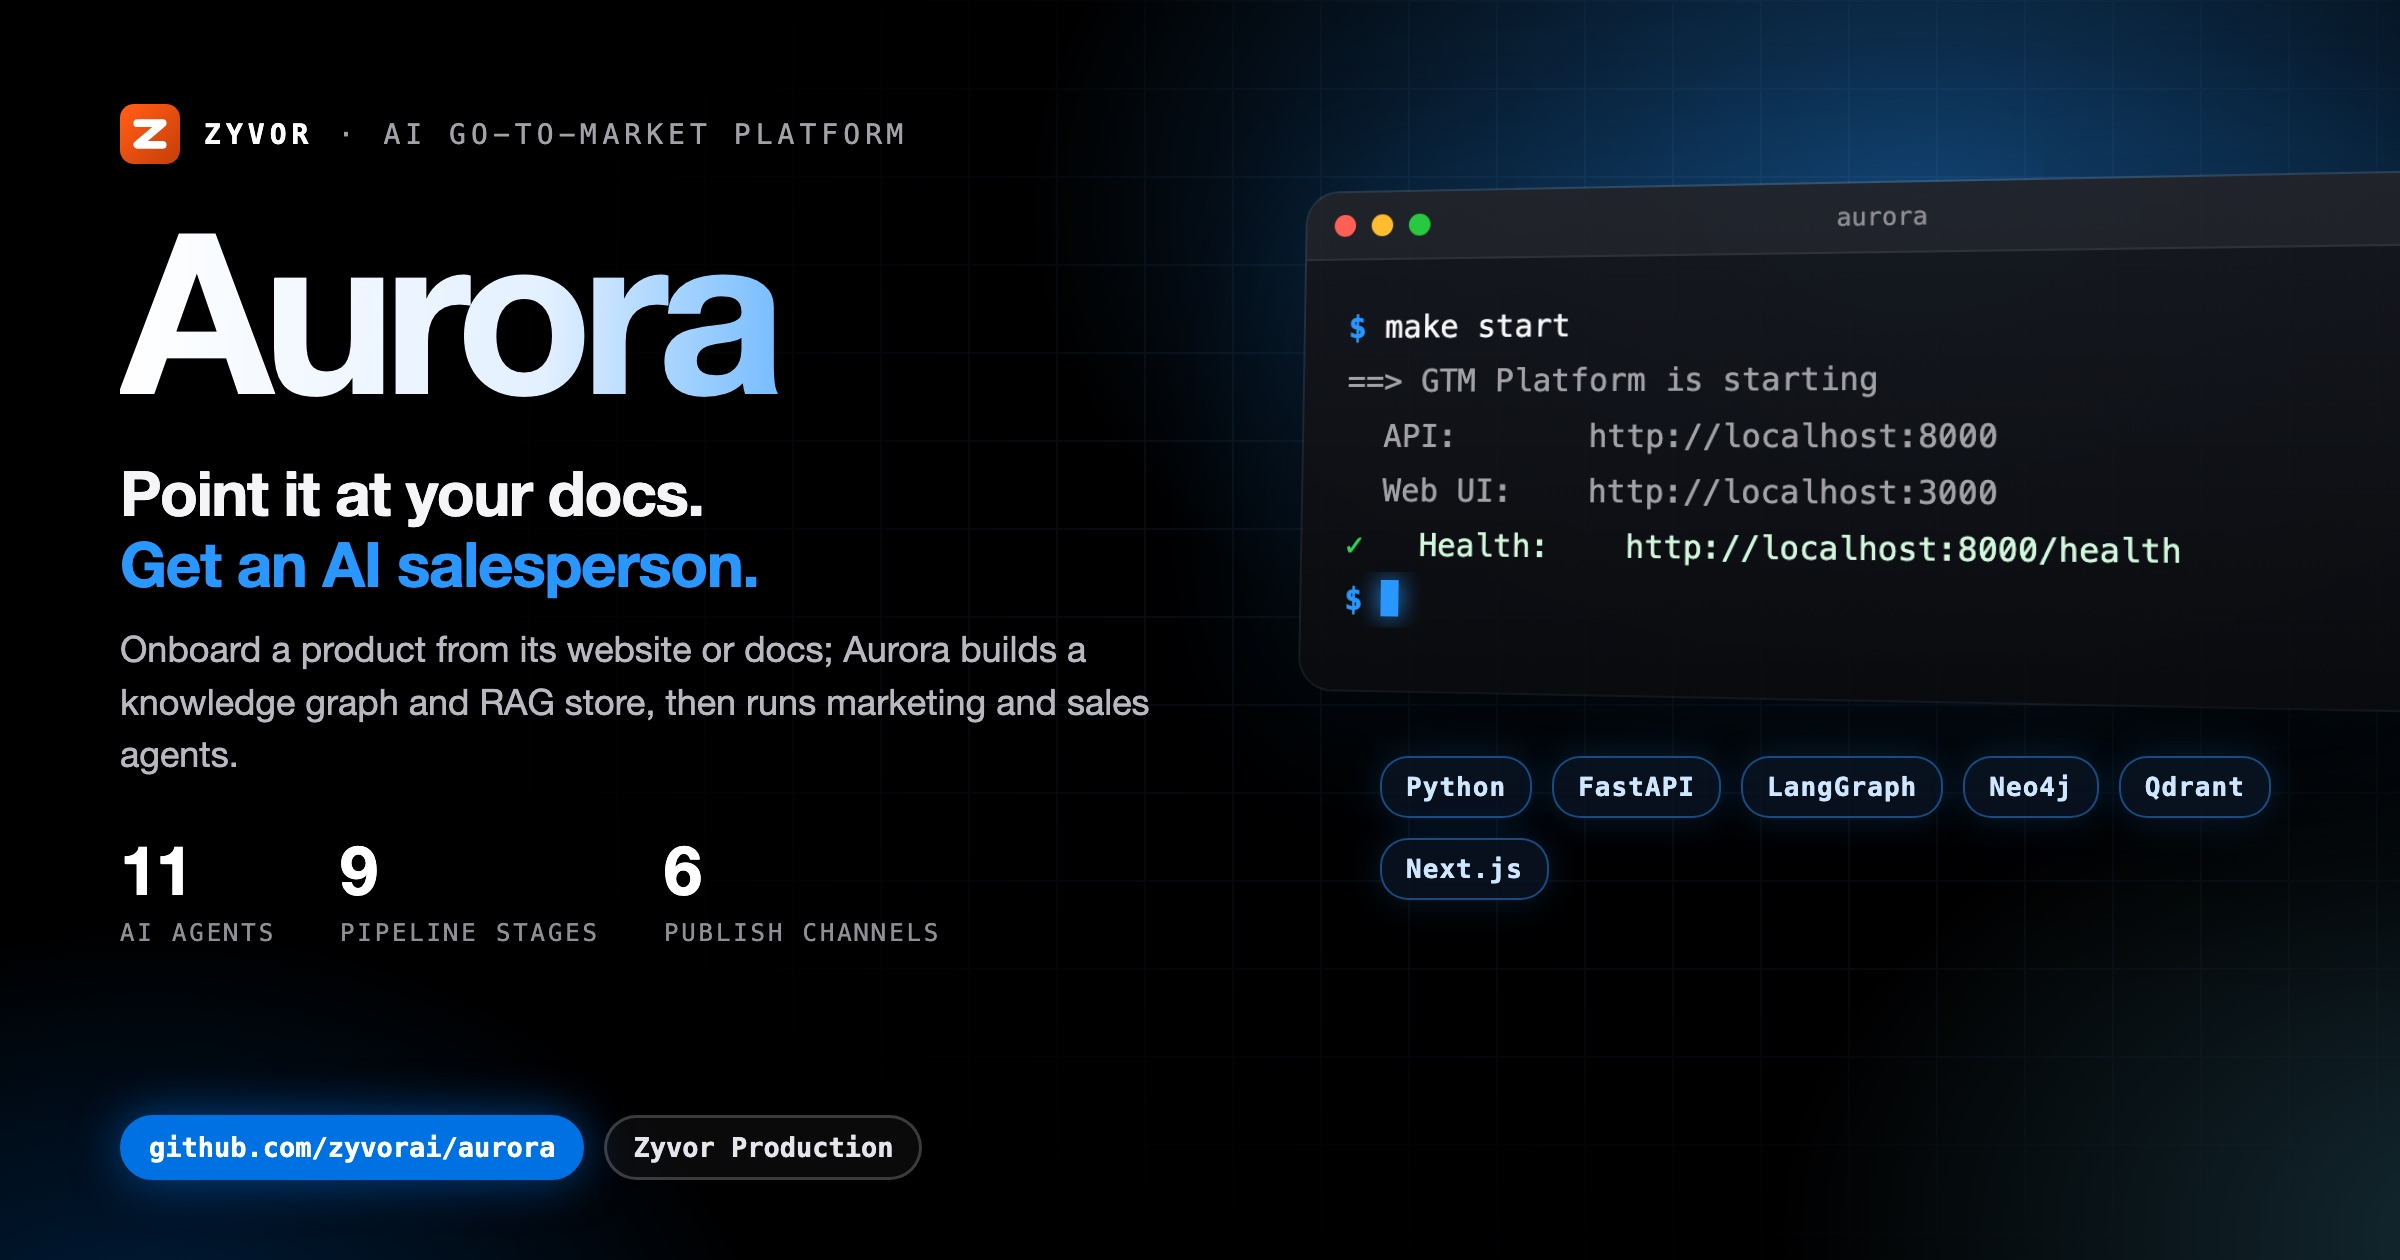
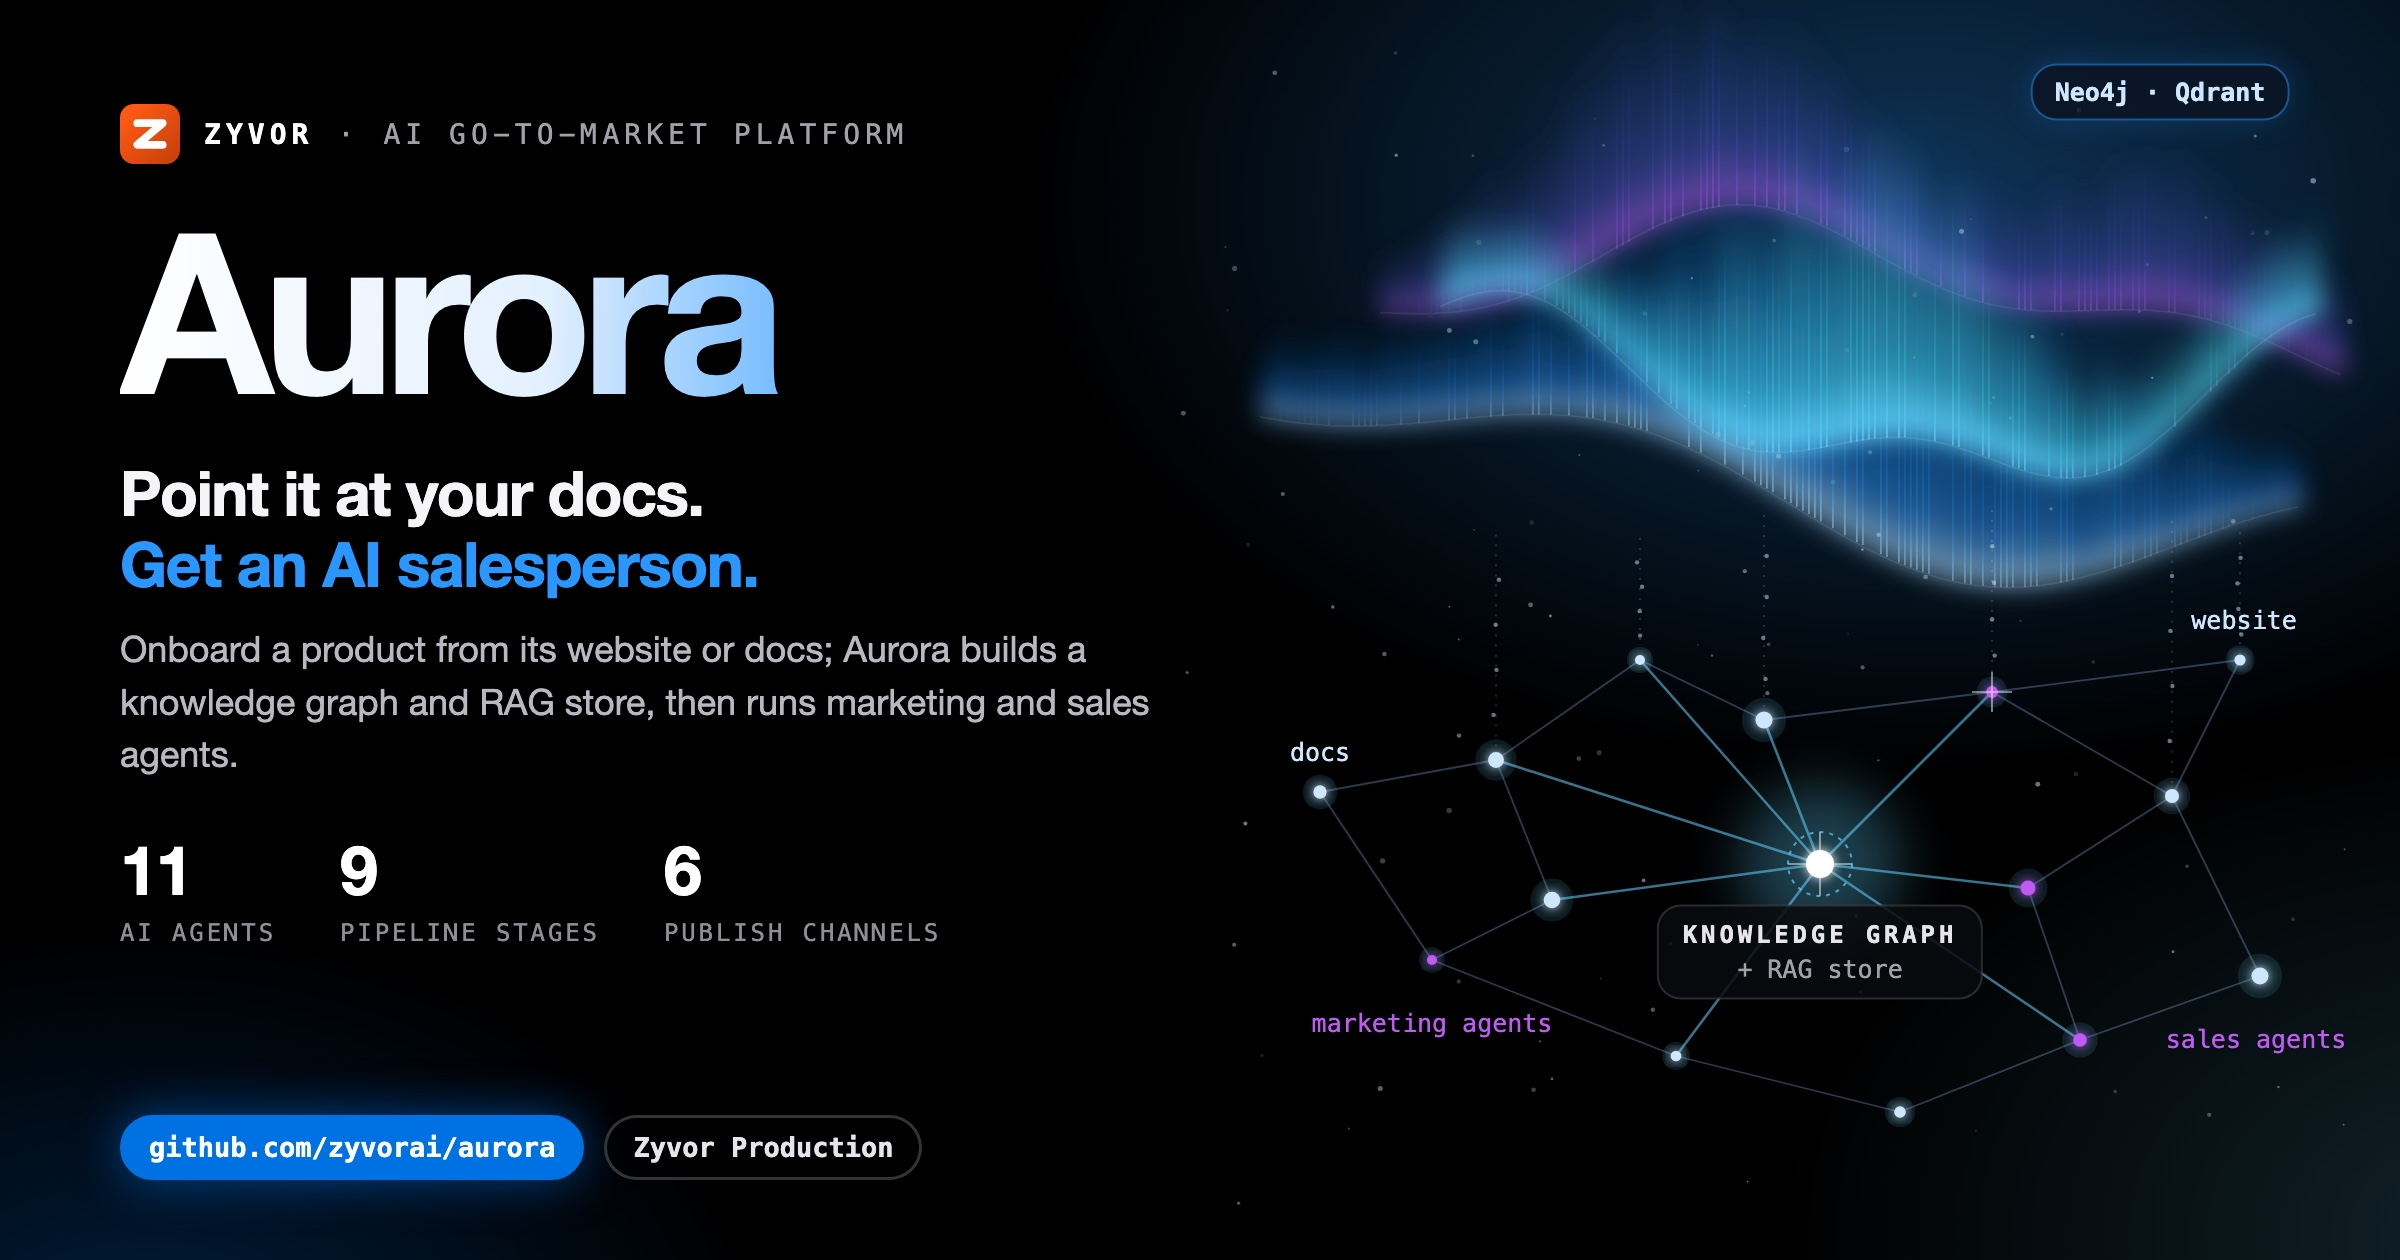
docs(social): unique illustrated hero card
Replace the shared terminal-window art with a motif drawn for this project;
same verified copy and stats on the left.

diff --git a/docs/social/aurora-hero-dark.html b/docs/social/aurora-hero-dark.html
@@ -8,58 +8,47 @@
   Build: ./docs/social/build-hero-dark.sh  ->  aurora-hero-dark.jpg (2400x1260)
 -->
 <style>
-  :root { --blue:#0071e3; --signal:#2997ff; --cyan:#64d2ff; --green:#30d158; --amber:#ff9f0a;
+  :root { --blue:#0071e3; --signal:#2997ff; --cyan:#64d2ff; --green:#30d158; --amber:#ff9f0a; --red:#ff453a; --violet:#bf5af2;
     --sans:'SF Pro Display','Helvetica Neue',Helvetica,Arial,sans-serif; --mono:'SF Mono',Menlo,Consolas,monospace; }
   * { box-sizing:border-box; }
   html,body { margin:0; padding:0; }
   body { width:1200px; height:630px; overflow:hidden; color:#f5f5f7; font-family:var(--sans); position:relative; background:#000; }
   .aurora { position:absolute; inset:0;
-    background:radial-gradient(720px 460px at 80% 16%, rgba(41,151,255,.40), transparent 62%),
-               radial-gradient(600px 420px at 104% 98%, rgba(100,210,255,.20), transparent 60%),
+    background:radial-gradient(720px 460px at 80% 16%, rgba(41,151,255,.34), transparent 62%),
+               radial-gradient(600px 420px at 104% 98%, rgba(100,210,255,.16), transparent 60%),
                radial-gradient(520px 380px at 6% 110%, rgba(0,113,227,.28), transparent 60%); }
-  .grid { position:absolute; inset:0; opacity:.09;
-    background-image:linear-gradient(rgba(120,180,255,.9) 1px,transparent 1px),linear-gradient(90deg,rgba(120,180,255,.9) 1px,transparent 1px);
-    background-size:44px 44px; -webkit-mask-image:radial-gradient(900px 520px at 72% 42%, #000 18%, transparent 75%); }
-  .left { position:absolute; left:60px; top:52px; width:560px; z-index:3; }
+  .copy { position:absolute; left:60px; top:52px; width:560px; z-index:3; }
   .brand { display:flex; align-items:center; gap:12px; font-family:var(--mono); font-size:14px; letter-spacing:.18em; text-transform:uppercase; color:#a1a1a6; }
   .brand b { color:#fff; }
   .word { margin:20px 0 0; font-size:112px; line-height:.95; font-weight:800; letter-spacing:-.05em; white-space:nowrap;
     background:linear-gradient(92deg,#fff 0%,#e3f0ff 38%,var(--signal) 74%,var(--cyan) 100%); -webkit-background-clip:text; background-clip:text; color:transparent; padding-bottom:6px; }
   .tag { margin:14px 0 0; font-size:31px; line-height:1.15; font-weight:700; letter-spacing:-.02em; }
   .tag em { font-style:normal; color:var(--signal); }
-  .lede { margin:12px 0 0; font-size:18px; line-height:1.45; color:#b8b8bf; width:520px; }
+  .lede { margin:12px 0 0; font-size:18px; line-height:1.45; color:#b8b8bf; width:520px; text-shadow:0 1px 12px #000; }
   .stats { margin-top:24px; display:flex; gap:32px; }
   .stat b { display:block; font-size:34px; font-weight:800; letter-spacing:-.03em; color:#fff; }
   .stat span { font-family:var(--mono); font-size:12px; letter-spacing:.12em; text-transform:uppercase; color:#8e8e93; }
   .pill { position:absolute; left:60px; bottom:40px; display:flex; gap:10px; z-index:3; }
-  .pill span { font-family:var(--mono); font-size:13.5px; font-weight:700; padding:7px 13px; border-radius:18px; border:1.5px solid rgba(255,255,255,.2); color:#e5e5ea; background:rgba(255,255,255,.04); }
+  .pill span { font-family:var(--mono); font-size:13.5px; font-weight:700; padding:7px 13px; border-radius:18px; border:1.5px solid rgba(255,255,255,.2); color:#e5e5ea; background:rgba(0,0,0,.6); }
   .pill span.b { background:var(--blue); border-color:var(--blue); color:#fff; box-shadow:0 0 24px rgba(0,113,227,.55); }
-
-  .right { position:absolute; left:652px; top:96px; width:560px; z-index:2; }
-  .win { position:relative; width:560px; border-radius:16px; overflow:hidden; z-index:2;
-    background:linear-gradient(180deg, rgba(22,24,30,.94), rgba(10,11,14,.96));
-    box-shadow:0 50px 100px rgba(0,0,0,.75), 0 0 0 1px rgba(255,255,255,.14), 0 0 90px rgba(41,151,255,.22);
-    transform:perspective(1600px) rotateY(-14deg) rotateX(4deg); transform-origin:left center; }
-  .bar { height:34px; display:flex; align-items:center; gap:8px; padding:0 14px; background:rgba(255,255,255,.05); border-bottom:1px solid rgba(255,255,255,.07); }
-  .bar i { width:11px; height:11px; border-radius:50%; background:#ff5f57; } .bar i:nth-child(2){background:#febc2e} .bar i:nth-child(3){background:#28c840}
-  .bar em { margin-left:auto; margin-right:auto; font-style:normal; font-family:var(--mono); font-size:12px; color:#8e8e93; transform:translateX(-24px); }
-  .term { min-height:214px; padding:20px 22px 24px; font-family:var(--mono); font-size:15.5px; line-height:1.75; }
-  .l { white-space:pre; overflow:hidden; text-overflow:ellipsis; color:#f5f5f7; }
-  .l .p { color:var(--signal); font-weight:700; }
-  .l.out { color:#a1a1a6; }
-  .l.cm { color:#6e6e73; }
-  .l.ok { color:#d1f7dc; } .l.ok span { color:var(--green); font-weight:700; }
-  .l.warn { color:#ffe1b0; } .l.warn span { color:var(--amber); font-weight:700; }
-  .cur { display:inline-block; width:9px; height:18px; background:var(--signal); vertical-align:-3px; box-shadow:0 0 12px var(--signal); }
-  .chips { margin:34px 0 0 38px; width:480px; display:flex; flex-wrap:wrap; gap:10px; position:relative; z-index:3; }
-  .chips span { font-family:var(--mono); font-size:13px; font-weight:700; letter-spacing:.04em; padding:7px 12px; border-radius:14px;
-    color:#cfe6ff; background:rgba(10,20,35,.82); border:1px solid rgba(41,151,255,.45); box-shadow:0 0 18px rgba(41,151,255,.18); }
+  .art { position:absolute; left:520px; top:0; width:680px; height:630px; z-index:2; }
+  .art svg { display:block; }
+  #labels { position:absolute; inset:0; z-index:4; pointer-events:none; }
+  .lbl { position:absolute; font-family:var(--mono); font-size:12.5px; color:#a1a1a6; text-align:center; transform:translate(-50%,-50%); white-space:nowrap; }
+  .lbl b { display:block; font-size:12px; letter-spacing:.16em; text-transform:uppercase; color:#e5e5ea; }
+  .lbl span { display:block; margin-top:3px; }
+  .lbl.box { padding:7px 12px; border-radius:12px; background:rgba(8,10,14,.85); border:1px solid rgba(255,255,255,.14); }
+  .lbl.chip { padding:6px 11px; border-radius:13px; font-size:12.5px; font-weight:700; color:#cfe6ff; background:rgba(10,20,35,.85); border:1px solid rgba(41,151,255,.5); box-shadow:0 0 16px rgba(41,151,255,.2); }
+  .lbl.left { transform:translate(0,-50%); text-align:left; }
+  .lbl.right { transform:translate(-100%,-50%); text-align:right; }
+  .ok { color:var(--green) !important; } .warn { color:var(--amber) !important; } .bad { color:var(--red) !important; } .sig { color:var(--signal) !important; } .cy { color:var(--cyan) !important; } .vi { color:var(--violet) !important; }
 </style>
 </head>
 <body>
 <div class="aurora"></div>
-<div class="grid"></div>
-<div class="left">
+<div class="art"><svg id="art" width="680" height="630" viewBox="0 0 680 630" xmlns="http://www.w3.org/2000/svg"></svg></div>
+<div id="labels"></div>
+<div class="copy">
   <div class="brand"><svg viewBox="0 0 64 64" width="30" height="30" aria-hidden="true"><defs><linearGradient id="zb" x1="8" y1="8" x2="56" y2="56" gradientUnits="userSpaceOnUse"><stop offset="0" stop-color="#ff5a15"/><stop offset="1" stop-color="#cc420a"/></linearGradient></defs><rect width="64" height="64" rx="15" fill="url(#zb)"/><path d="M18.5,20.5 45.5,20.5 18.5,43.5 45.5,43.5" fill="none" stroke="#fff" stroke-width="8.3" stroke-linecap="round" stroke-linejoin="round"/></svg><b>Zyvor</b><span>&middot;</span><span>AI go-to-market platform</span></div>
   <div class="word">Aurora</div>
   <div class="tag">Point it at your docs.<br><em>Get an AI salesperson.</em></div>
@@ -67,8 +56,92 @@
   <div class="stats"><div class="stat"><b>11</b><span>AI agents</span></div><div class="stat"><b>9</b><span>pipeline stages</span></div><div class="stat"><b>6</b><span>publish channels</span></div></div>
 </div>
 <div class="pill"><span class="b">github.com/zyvorai/aurora</span><span>Zyvor Production</span></div>
-<div class="right"><div class="win"><div class="bar"><i></i><i></i><i></i><em>aurora</em></div>
-<div class="term"><div class="l"><span class="p">$</span> make start</div><div class="l out">==&gt; GTM Platform is starting</div><div class="l out">  API:       http://localhost:8000</div><div class="l out">  Web UI:    http://localhost:3000</div><div class="l ok"><span>&#10003;</span>   Health:    http://localhost:8000/health</div><div class="l"><span class="p">$</span> <i class="cur"></i></div></div></div>
-<div class="chips"><span>Python</span><span>FastAPI</span><span>LangGraph</span><span>Neo4j</span><span>Qdrant</span><span>Next.js</span></div></div>
+<script>
+var Z = (function () {
+  var NS = 'http://www.w3.org/2000/svg', svg = document.getElementById('art'), labels = document.getElementById('labels');
+  var seed = 20261004;
+  function rnd() { seed = (seed * 1103515245 + 12345) % 2147483648; return seed / 2147483648; }
+  function el(tag, a, parent) { var n = document.createElementNS(NS, tag); for (var k in a) n.setAttribute(k, a[k]); (parent || svg).appendChild(n); return n; }
+  function g(attrs) { return el('g', attrs || {}); }
+  function label(x, y, inner, cls, style) { var d = document.createElement('div'); d.className = 'lbl ' + (cls || ''); d.style.left = (520 + x) + 'px'; d.style.top = y + 'px'; if (style) d.setAttribute('style', d.getAttribute('style') + ';' + style); d.innerHTML = inner; labels.appendChild(d); return d; }
+  return { NS: NS, svg: svg, W: 680, H: 630, rnd: rnd, el: el, g: g, label: label,
+    reseed: function (s) { seed = s; },
+    c: { blue: '#0071e3', signal: '#2997ff', cyan: '#64d2ff', green: '#30d158', amber: '#ff9f0a', red: '#ff453a', violet: '#bf5af2', teal: '#40c8e0', indigo: '#5e5ce6', pink: '#ff375f', white: '#f5f5f7', grey: '#8e8e93' } };
+})();
+(function () {
+// Aurora: luminous aurora curtains flowing over a constellation knowledge graph.
+// Light rains down from the curtains (ingested docs) and settles into graph stars that agents read from.
+var C = Z.c;
+var defs = Z.el('defs', {});
+defs.innerHTML = '<filter id="auGl" x="-50%" y="-50%" width="200%" height="200%"><feGaussianBlur stdDeviation="2.6" result="b"/><feMerge><feMergeNode in="b"/><feMergeNode in="SourceGraphic"/></feMerge></filter>' +
+  '<filter id="auSoft" x="-20%" y="-40%" width="140%" height="180%"><feGaussianBlur stdDeviation="6"/></filter>' +
+  '<filter id="auSf" x="-50%" y="-50%" width="200%" height="200%"><feGaussianBlur stdDeviation="14"/></filter>' +
+  '<linearGradient id="auT" x1="0" y1="1" x2="0" y2="0"><stop offset="0" stop-color="#64d2ff" stop-opacity=".95"/><stop offset=".25" stop-color="#40c8e0" stop-opacity=".55"/><stop offset="1" stop-color="#40c8e0" stop-opacity="0"/></linearGradient>' +
+  '<linearGradient id="auV" x1="0" y1="1" x2="0" y2="0"><stop offset="0" stop-color="#bf5af2" stop-opacity=".8"/><stop offset=".35" stop-color="#5e5ce6" stop-opacity=".4"/><stop offset="1" stop-color="#5e5ce6" stop-opacity="0"/></linearGradient>' +
+  '<linearGradient id="auB" x1="0" y1="1" x2="0" y2="0"><stop offset="0" stop-color="#bfe9ff" stop-opacity=".75"/><stop offset=".2" stop-color="#2997ff" stop-opacity=".55"/><stop offset="1" stop-color="#0071e3" stop-opacity="0"/></linearGradient>';
+
+// distant stars
+for (var i = 0; i < 110; i++) {
+  var x = 70 + Z.rnd() * 590, y = 24 + Z.rnd() * 580;
+  if (x < 90 && y > 430) continue;
+  Z.el('circle', { cx: x.toFixed(1), cy: y.toFixed(1), r: (0.4 + Z.rnd() * 1).toFixed(2), fill: '#dbeaff', opacity: (0.1 + Z.rnd() * 0.4).toFixed(2) });
+}
+
+// aurora curtains: many thin vertical rays rising from a wavy base line
+function curtain(grad, base, amp, freq, phase, hMin, hMax, x0, x1, op) {
+  var soft = Z.g({ filter: 'url(#auSoft)', opacity: op }), sharp = Z.g({ opacity: op * 0.75 });
+  var edge = '';
+  for (var x = x0; x <= x1; x += 3) {
+    var t = (x - x0) / (x1 - x0), env = Math.sin(t * Math.PI);
+    var by = base + amp * Math.sin(x * freq + phase) + amp * 0.4 * Math.sin(x * freq * 2.7 + phase * 1.3);
+    var h = (hMin + (hMax - hMin) * (0.5 + 0.5 * Math.sin(x * freq * 1.9 + phase * 2))) * (0.35 + 0.65 * env) * (0.8 + Z.rnd() * 0.4);
+    Z.el('rect', { x: x, y: (by - h).toFixed(1), width: 3, height: h.toFixed(1), fill: 'url(#' + grad + ')' }, soft);
+    if (Z.rnd() < 0.5) Z.el('rect', { x: x + 1, y: (by - h * 0.8).toFixed(1), width: 0.9, height: (h * 0.8).toFixed(1), fill: 'url(#' + grad + ')', opacity: (env * 0.9).toFixed(2) }, sharp);
+    edge += (edge ? ' L' : 'M') + x + ',' + by.toFixed(1);
+  }
+  Z.el('path', { d: edge, fill: 'none', stroke: '#dff6ff', 'stroke-width': 0.8, opacity: op * 0.12, filter: 'url(#auGl)' });
+}
+curtain('auV', 150, 34, 0.010, 1.2, 60, 130, 170, 650, 0.75);
+curtain('auB', 236, 44, 0.007, 4.1, 70, 170, 110, 630, 0.85);
+curtain('auT', 196, 40, 0.012, 2.4, 60, 160, 200, 640, 1);
+
+// knowledge graph constellation
+var N = [
+  { x: 390, y: 432, r: 7, hub: 1 },
+  { x: 228, y: 380 }, { x: 300, y: 330 }, { x: 476, y: 346 }, { x: 566, y: 398 }, { x: 610, y: 488 },
+  { x: 520, y: 520 }, { x: 430, y: 556 }, { x: 318, y: 528 }, { x: 196, y: 480 }, { x: 140, y: 396 },
+  { x: 256, y: 450 }, { x: 494, y: 444 }, { x: 362, y: 360 }, { x: 600, y: 330 }
+];
+var E = [[0, 1], [0, 2], [0, 3], [0, 6], [0, 8], [0, 11], [0, 12], [0, 13], [1, 2], [1, 10], [1, 11], [2, 13], [3, 13], [3, 4], [4, 5], [4, 12], [5, 6], [6, 7], [7, 8], [8, 9], [9, 11], [9, 10], [12, 6], [3, 14], [4, 14]];
+// falling light from the curtains into the graph
+[2, 3, 13, 14, 1, 4].forEach(function (k) {
+  var n = N[k], top = 250 + Z.rnd() * 20;
+  Z.el('line', { x1: n.x, y1: top, x2: n.x, y2: n.y - 6, stroke: '#9fd8ff', 'stroke-width': 0.8, opacity: .22, 'stroke-dasharray': '1 4' });
+  for (var j = 0; j < 4; j++) Z.el('circle', { cx: n.x + (Z.rnd() - .5) * 3, cy: top + (n.y - top) * (0.2 + j * 0.2), r: 1.1, fill: '#cfe6ff', opacity: .5 });
+});
+E.forEach(function (e) {
+  var a = N[e[0]], b = N[e[1]], hub = e[0] === 0;
+  Z.el('line', { x1: a.x, y1: a.y, x2: b.x, y2: b.y, stroke: hub ? C.cyan : '#8fbfff', 'stroke-width': hub ? 1.3 : 0.9, opacity: hub ? .55 : .3 });
+});
+Z.el('circle', { cx: N[0].x, cy: N[0].y, r: 40, fill: C.cyan, opacity: .3, filter: 'url(#auSf)' });
+N.forEach(function (n, k) {
+  var r = n.r || (2.4 + Z.rnd() * 2);
+  if (!n.hub) Z.el('circle', { cx: n.x, cy: n.y, r: r * 2.6, fill: '#64d2ff', opacity: .12 });
+  Z.el('circle', { cx: n.x, cy: n.y, r: r, fill: n.hub ? '#fff' : (k % 3 === 0 ? C.violet : '#cfe6ff'), filter: 'url(#auGl)' });
+  if (n.hub || k === 3) {
+    var s = n.hub ? 16 : 10;
+    Z.el('path', { d: 'M' + (n.x - s) + ',' + n.y + ' L' + (n.x + s) + ',' + n.y + ' M' + n.x + ',' + (n.y - s) + ' L' + n.x + ',' + (n.y + s), stroke: '#fff', 'stroke-width': .8, opacity: .6 });
+  }
+});
+Z.el('circle', { cx: N[0].x, cy: N[0].y, r: 16, fill: 'none', stroke: C.cyan, 'stroke-width': 1, opacity: .7, 'stroke-dasharray': '2 3' });
+
+Z.label(N[0].x, N[0].y + 44, '<b>knowledge graph</b><span>+ RAG store</span>', 'box');
+Z.label(N[10].x, N[10].y - 20, 'docs', '', 'color:#cfe6ff');
+Z.label(N[14].x + 2, N[14].y - 20, 'website', '', 'color:#cfe6ff');
+Z.label(N[5].x - 2, N[5].y + 30, '<span class="vi">sales agents</span>');
+Z.label(N[9].x, N[9].y + 30, '<span class="vi">marketing agents</span>');
+Z.label(560, 46, 'Neo4j &middot; Qdrant', 'chip');
+})();
+</script>
 </body>
 </html>
